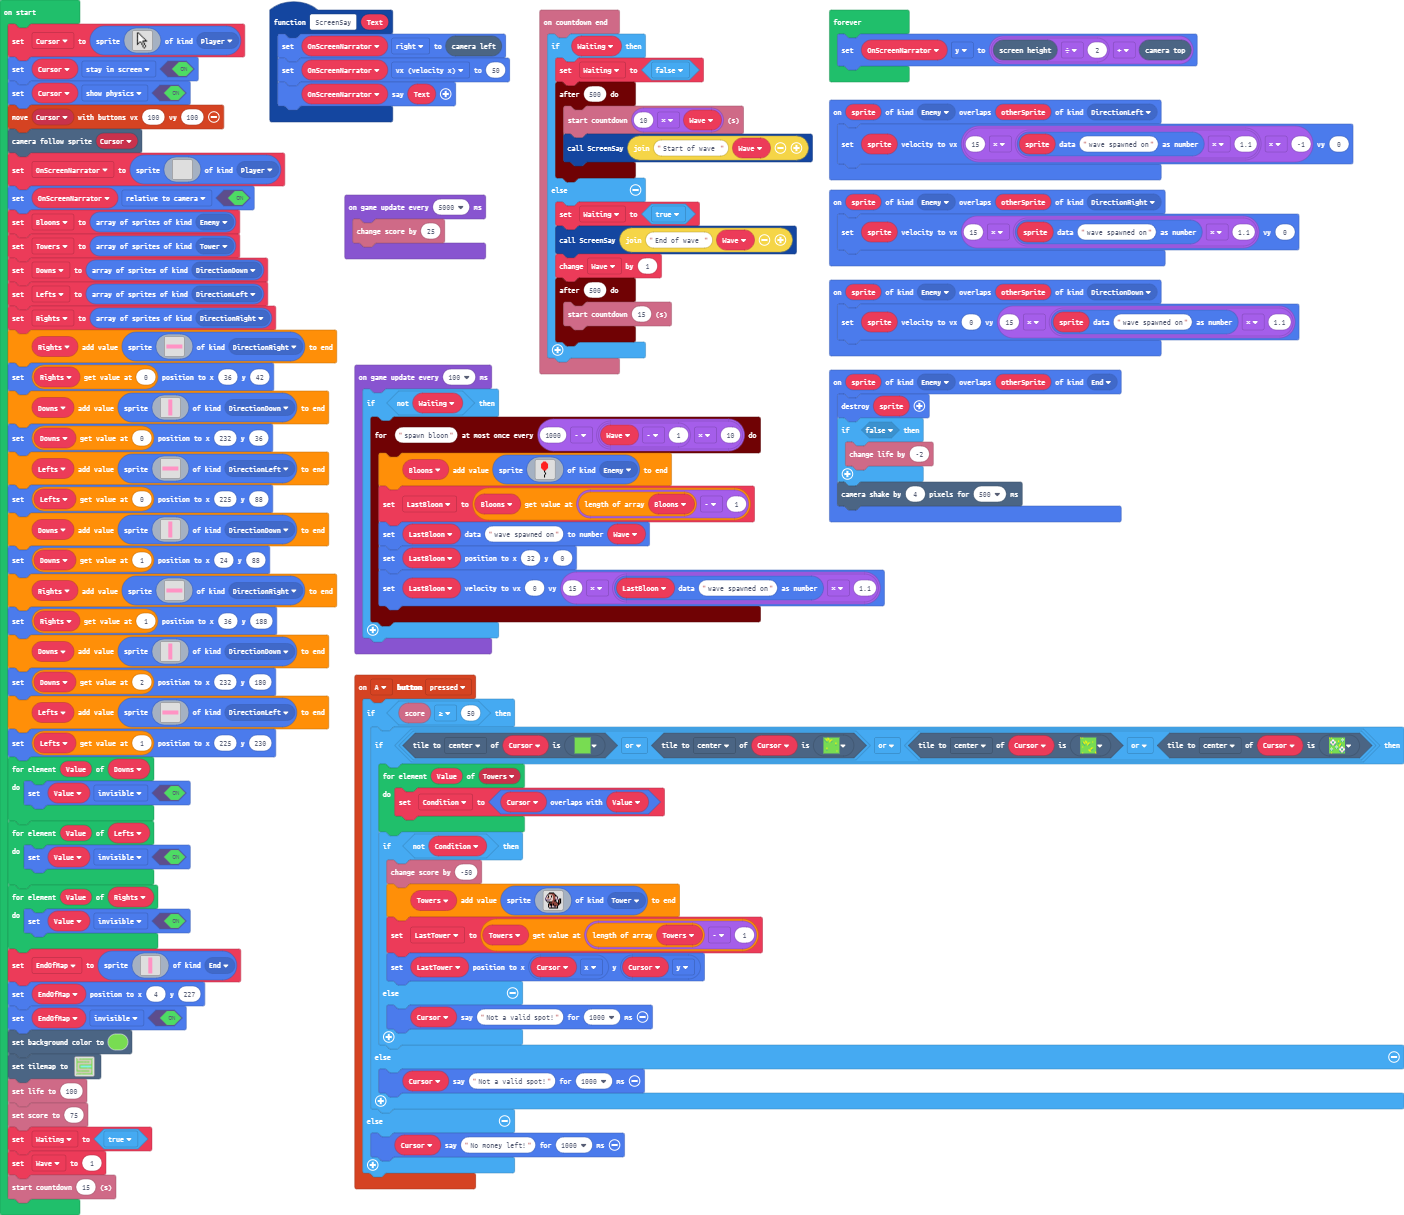
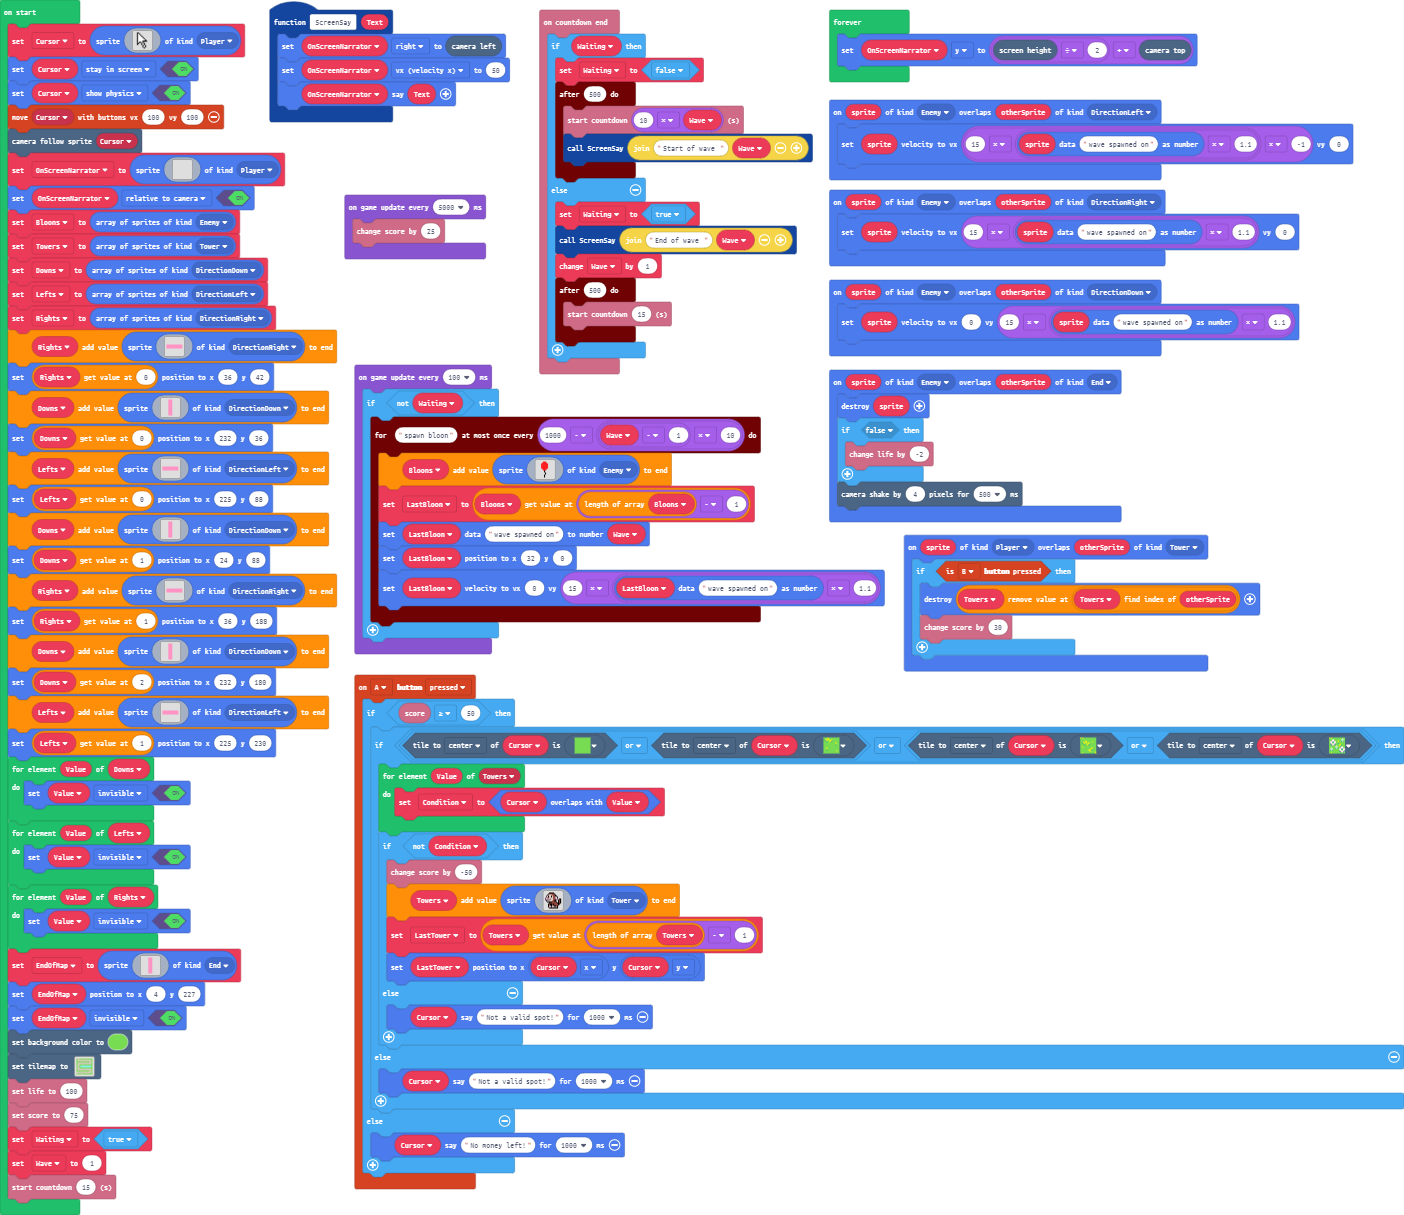
You can now sell monkeys back

Changed region(s): [[0.6432, 0.4263, 0.9188, 0.5786]]

diff --git a/main.ts b/main.ts
@@ -250,6 +250,12 @@ sprites.onOverlap(SpriteKind.Enemy, SpriteKind.End, function (sprite, otherSprit
     }
     scene.cameraShake(4, 500)
 })
+sprites.onOverlap(SpriteKind.Player, SpriteKind.Tower, function (sprite, otherSprite) {
+    if (controller.B.isPressed()) {
+        Towers.removeAt(Towers.indexOf(otherSprite)).destroy()
+        info.changeScoreBy(30)
+    }
+})
 sprites.onOverlap(SpriteKind.Enemy, SpriteKind.DirectionLeft, function (sprite, otherSprite) {
     sprite.setVelocity(15 * (sprites.readDataNumber(sprite, "wave spawned on") * 1.1) * -1, 0)
 })
